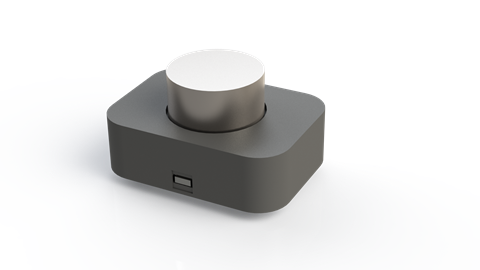
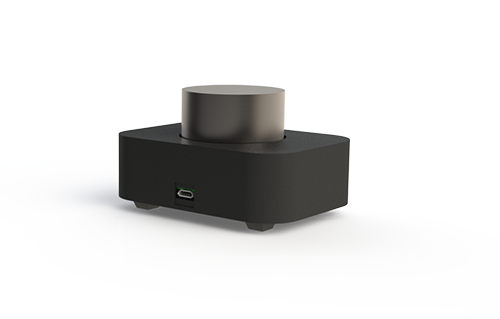
Updating the images. More information on the hardware.

Changed region(s): [[0.1562, 0.2667, 0.7188, 0.8296]]

diff --git a/README.md b/README.md
@@ -11,6 +11,25 @@ Turn a Raspberry Pi Pico into a media control device for PC.
 
 ## Getting Started
 
+![Exploded-View](hardware/exploded-view.png)
+
+**Parts List:**
+
+* 3D Printed `hardware/enclosure-base`
+* 3D Printed `hardware/enclosure-lid`
+* 4x M2 Threaded Knurled Heatset Inserts
+* 2x M3 Threaded Knurled Heatset Inserts
+* EC11 Rotor Encoder or Similar
+* 4x M2x3 screws
+* 2x M3x6 screws
+* 4x 12x12mm rubber adhesive feet
+* 44mm Aluminium Rotor Encoder / Potentiometer Knob
+* Raspberry Pi Pico
+* Ribbon Cable
+* 2x 5mm LEDs (Optional)
+
+With the exception of the customer 3d printed parts, all the components can be picked up off AliExpress.
+
 ### Setting Up The MicroController
 
 This project uses [CircuitPython](https://circuitpython.org/) for the helpful HID libraries.
@@ -24,6 +43,12 @@ There are also several [adafruit libraries](https://circuitpython.org/libraries)
 The contents of the `firmware/` subdirectory should be copied into the root directory of the Pico device.
 
 Note: The storage device is disabled on the next hard boot of the Pi, to disable this behaviour for update or development short Pin 13 to ground on boot.
+
+### Setting up the enclosure
+
+The enclosure is a 2 piece design designed to be 3d printed.
+The `enclosure-lid` is installed with m2 heatset inserts for securing the raspberry pi, as well as m3 heatset inserts to securing the base.
+There are optional in the LID to fit standard 5mm LEDs to achieve an illuminated ring under the control knob.
 
 ---
 
